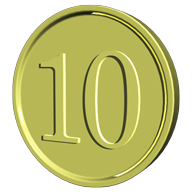
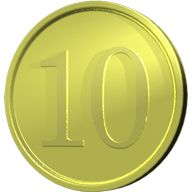
at 2019.04.13 17:52

diff --git a/index.html b/index.html
@@ -126,8 +126,39 @@
             '       :fill="textColor"' +
             '       :max="max"' +
             '       :min="min"' +
-            '       v-model="value"' +
+            '       v-model.number="value"' +
+            '       v-on:blur="onBlur"' +
+            '       @keypress.48="onKeyDownCheck"' +
+            '       @keypress.49="onKeyDownCheck"' +
+            '       @keypress.50="onKeyDownCheck"' +
+            '       @keypress.51="onKeyDownCheck"' +
+            '       @keypress.52="onKeyDownCheck"' +
+            '       @keypress.53="onKeyDownCheck"' +
+            '       @keypress.54="onKeyDownCheck"' +
+            '       @keypress.55="onKeyDownCheck"' +
+            '       @keypress.56="onKeyDownCheck"' +
+            '       @keypress.57="onKeyDownCheck"' +
+            '       @keypress.96="onKeyDownCheck"' +
+            '       @keypress.97="onKeyDownCheck"' +
+            '       @keypress.98="onKeyDownCheck"' +
+            '       @keypress.99="onKeyDownCheck"' +
+            '       @keypress.100="onKeyDownCheck"' +
+            '       @keypress.101="onKeyDownCheck"' +
+            '       @keypress.102="onKeyDownCheck"' +
+            '       @keypress.103="onKeyDownCheck"' +
+            '       @keypress.104="onKeyDownCheck"' +
+            '       @keypress.105="onKeyDownCheck"' +
+            '       @keydown.69="onKeyDownDisable"' +
+            '       @keydown.107="onKeyDownDisable"' +
+            '       @keydown.109="onKeyDownDisable"' +
+            '       @keydown.110="onKeyDownDisable"' +
+            '       @keydown.shift.187="onKeyDownDisable"' +
+            '       @keydown.189="onKeyDownDisable"' +
+            '       @keydown.190="onKeyDownDisable"' +
+            '       @keypress.delete="onKeyPressDelete"' +
             '       @keypress.enter="onKeypressEnter"' +
+            '       @mouseup="onMouseUpInput"' +
+            '       @keyup="onKeyUpInput"' +
             '       class="knob-control__text-input">' +
             '</div>',
         props: {
@@ -158,7 +189,7 @@
             },
             'primaryColor': {
                 type: String,
-                default: '#006400'
+                default: '#6B8E23'
             },
             'secondaryColor': {
                 type: String,
@@ -295,7 +326,7 @@
                     window.removeEventListener('touchend', this.onTouchEnd);
                 }
             },
-           onMouseMove(e) {
+            onMouseMove(e) {
                 if (!this.disabled) {
                     e.preventDefault();
                     this.updatePosition(e.offsetX, e.offsetY);
@@ -313,10 +344,64 @@
                 }
             },
             onKeypressEnter(e) {
-                if (isNaN(this.value)) {
-                    this.value = 0;
+                let val = this.$refs.input.value;
+                const re = new RegExp('[0-9]+');
+                if (val.match(re)) {
+                    if (Number(val) > 50) val = '50';
+                    if (Number(val) < 0) val = '0';
+                    this.$emit('input',Number(val).toString());
+                    this.$refs.input.blur();
+                    return;
                 }
-                this.$refs.input.blur();
+                if (val === '') {
+                    this.$emit('input','0');
+                    this.$refs.input.blur();
+                    return;
+                }
+                event.preventDefault();
+            },
+            onBlur(e) {
+                let val = this.$refs.input.value;
+                const re = new RegExp('[0-9]+');
+                if (val.match(re)) {
+                    if (Number(val) > 50) val = '50';
+                    if (Number(val) < 0) val = '0';
+                    this.$emit('input',Number(val).toString());
+                    return;
+                }
+                if (val === '') {
+                    this.$emit('input','0');
+                    this.$refs.input.blur();
+                    return;
+                }
+                event.preventDefault();
+            },
+            onKeyDownCheck(e) {
+                let val = this.$refs.input.value;
+                const re = new RegExp('[0-9]+');
+                if (val.match(re)) {
+                    if (Number(val) > 50) val = '50';
+                    if (Number(val) < 0) val = '0';
+                    this.$emit('input',Number(val).toString());
+                    return;
+                }
+                if (val === '') {
+                    this.$emit('input','0');
+                    return;
+                }
+                event.preventDefault();
+            },
+            onMouseUpInput(e) {
+                this.$emit('input', this.$refs.input.value);
+            },
+            onKeyUpInput(e) {
+                this.$emit('input', this.$refs.input.value);
+            },
+            onKeyDownDisable(e) {
+                event.preventDefault();
+            },
+            onKeyPressDelete(e) {
+                return;
             },
             outerText(offsetX, offsetY) {
                 return !(offsetX > 43 && offsetX < 134 && offsetY > 53 && offsetY < 111);
@@ -325,7 +410,7 @@
     });
 </script>
 <style>
-    .knob-control {
+    knob-control {
         position: relative;
     }
     .knob-control__range {
@@ -367,7 +452,7 @@
                 <div class="r1st">
                     <input class="cst" type="hidden" :value="item.unit" width="1px" height="1px"/>
                     <img :alt="item.callName + 'の枚数'" class="image m-0 p-0 coin_picture" :src="'images/coin-' + item.unit + '.png'"/>
-                    <knob-control class="dial" primary-color="#006400" secondary-color="#D0D0D0" text-color="#006400" :min="0" :max="50" :size="170" v-model="item.number" height="170px"></knob-control>
+                    <knob-control class="dial" primary-color="#6B8E23" secondary-color="#D0D0D0" text-color="#006400" :min="0" :max="50" :size="170" v-model="item.counts" height="170px"></knob-control>
                 </div>
             </div>
         </div>
@@ -384,8 +469,8 @@
             <nav class="navbar navbar-light bg-white border-bottom-4 border-success Regular shadow p-0 m-0">
                 <img alt="まねかん Powered by Horornis.com." src="images/site-logo.png" class="navbar-brand" width="300px"/>
                 <span class="right">
-                    <button class="btn btn-outline-primary m-0 p-0 foo" :data-clipboard-text="totalValue"><span id="sumtitle"> 合計 </span><span id="sumresult">&yen;{{ totalMoney }} </span><span id="sumconst">&#x1F4CB;</span></button>
-                    <button class="btn btn-outline-danger allClear m-0" @click="doclear"><strong> C </strong></button>
+                    <button ref="totalValueButton" class="btn btn-outline-primary m-0 p-0 foo" :data-clipboard-text="totalValue"><span id="sumtitle"> 合計 </span><span id="sumresult">&yen;{{ totalMoney }} </span><span id="sumconst">&#x1F4CB;</span></button>
+                    <button ref="allClearButton" class="btn btn-outline-danger allClear m-0" @click="doclear"><strong> C </strong></button>
                 </span>
                 <div class="bg-white header3">
                     <div class="hidden_list">
@@ -403,25 +488,27 @@
     </div>
 </div>
 <script>
+    const storejs = store;
+    const cookiehead = '.Horornis-money_can-v3_0_2';
     function initialState() {
         const old_cookiehead = '.Horornis-moneycounter-v2_4_91-';
         const data = {
-            cookiehead: '.Horornis-money_can-v3_0_1',
+            cookiehead: '.Horornis-money_can-v3_0_2',
             items: [
-                {id: 0, order: 0, type: 's1', callName: '1円', unit: 1, number: 0, visible: true},
-                {id: 1, order: 1, type: 's5', callName: '5円', unit: 5, number: 0, visible: true},
-                {id: 2, order: 2, type: 's10', callName: '10円', unit: 10, number: 0, visible: true},
-                {id: 3, order: 3, type: 's50', callName: '50円', unit: 50, number: 0, visible: true},
-                {id: 4, order: 4, type: 's100', callName: '100円', unit: 100, number: 0, visible: true},
-                {id: 5, order: 5, type: 's500', callName: '500円', unit: 500, number: 0, visible: true},
-                {id: 6, order: 6, type: 's1000', callName: '千円', unit: 1000, number: 0, visible: false},
-                {id: 7, order: 7, type: 's2000', callName: '弐千円', unit: 2000, number: 0, visible: false},
-                {id: 8, order: 8, type: 's5000', callName: '五千円', unit: 5000, number: 0, visible: false},
-                {id: 9, order: 9, type: 's10000', callName: '壱万円', unit: 10000, number: 0, visible: false}
+                {id: 0, order: 0, type: 's1', callName: '1円', unit: 1, counts: 0, visible: true},
+                {id: 1, order: 1, type: 's5', callName: '5円', unit: 5, counts: 0, visible: true},
+                {id: 2, order: 2, type: 's10', callName: '10円', unit: 10, counts: 0, visible: true},
+                {id: 3, order: 3, type: 's50', callName: '50円', unit: 50, counts: 0, visible: true},
+                {id: 4, order: 4, type: 's100', callName: '100円', unit: 100, counts: 0, visible: true},
+                {id: 5, order: 5, type: 's500', callName: '500円', unit: 500, counts: 0, visible: true},
+                {id: 6, order: 6, type: 's1000', callName: '千円', unit: 1000, counts: 0, visible: false},
+                {id: 7, order: 7, type: 's2000', callName: '弐千円', unit: 2000, counts: 0, visible: false},
+                {id: 8, order: 8, type: 's5000', callName: '五千円', unit: 5000, counts: 0, visible: false},
+                {id: 9, order: 9, type: 's10000', callName: '壱万円', unit: 10000, counts: 0, visible: false}
             ]
         };
         let ret = {
-            cookiehead: '.Horornis-money_can-v3_0_1',
+            cookiehead: '.Horornis-money_can-v3_0_2',
             items: []
         };
         if (store.has(data.cookiehead)) ret.items = store.get(data.cookiehead);
@@ -431,7 +518,7 @@
         }
         for (let i = 0; i < data.length; i++) {
             if (store.has(old_cookiehead + data.items[i].type)) {
-                data.items[i].number = store.get(old_cookiehead + data.items[i].type).count;
+                data.items[i].counts = store.get(old_cookiehead + data.items[i].type).count;
                 data.items[i].visible = !(store.get(old_cookiehead + data.items[i].type).hide);
                 store.delete(old_cookiehead + data.items[i].type);
             }
@@ -448,7 +535,7 @@
                 let total = 0;
                 for (let i = 0; i < this.items.length; i++) {
                     if (this.items[i].visible) {
-                        total += this.items[i].unit * this.items[i].number;
+                        total += this.items[i].unit * this.items[i].counts;
                     }
                 }
                 store.set(this.cookiehead,this.items);
@@ -459,7 +546,7 @@
                 let total = 0;
                 for (let i = 0; i < this.items.length; i++) {
                     if (this.items[i].visible) {
-                        total += this.items[i].unit * this.items[i].number;
+                        total += this.items[i].unit * this.items[i].counts;
                     }
                 }
                 return total;
@@ -467,14 +554,14 @@
             subtotalMoney: function () {
                 let ret = [];
                 for (let i = 0; i < this.items.length; i++) {
-                    ret.push(Number(this.items[i].unit * this.items[i].number).toLocaleString());
+                    ret.push(Number(this.items[i].unit * this.items[i].counts).toLocaleString());
                 }
                 return ret;
             }
         },
         methods: {
             dohide: function (i) {
-                this.items[i].number = 0;
+                this.items[i].counts = 0;
                 this.items[i].visible = false;
             },
             doshow: function (i) {
@@ -482,8 +569,9 @@
             },
             doclear: function () {
                 for (let i = 0; i < this.items.length; i++) {
-                    this.items[i].number = 0;
+                    this.items[i].counts = 0;
                 }
+                this.$refs.allClearButton.blur();
             },
         }
     });
@@ -491,16 +579,18 @@
     let clipboard = new ClipboardJS('.foo');
     clipboard.on('success', function (e) {
         alert('クリップボードへコピーしました。');
+        $('button.foo').blur();
     });
     clipboard.on('error', function (e) {
         alert('クリップボードへのコピーに失敗しました。');
+        $('button.foo').blur();
     });
-    $(function () {
-        Sortable.create($('.tbl')[0], {
-            handle: '.handle',
-            animation: 150  // ミリ秒で指定
-        });
+    let el = document.getElementsByClassName('tbl');
+    Sortable.create(el[0], {
+        handle: '.handle',
+        animation: 150,  // ミリ秒で指定
     });
+
 </script>
 </body>
 </html>

diff --git a/css/main.css b/css/main.css
@@ -28,7 +28,7 @@ div.site-header{
 	justify-content: space-between;
 	align-self: center;
 	background: #fff;
-	border-bottom: medium solid darkgreen;
+	border-bottom: medium solid #6B8E23;
 	vertical-align: middle;
 	height: 2em;
 }
@@ -46,7 +46,7 @@ div.header3 {
 	height: auto;
 	width: 100%;
 	background-color: #fff;
-	border-top: medium solid darkgreen;
+	border-top: medium solid #6B8E23;
 	border-bottom: 1px solid gray;
 	vertical-align:baseline;
 	text-align: left;
@@ -86,7 +86,7 @@ div.ft_txt {
 	height: auto;
 	align-content: center;
 	color: white;
-	background-color: green;
+	background-color: #6B8E23;
 }
 div.dummy {
 	height: 8em;
@@ -224,12 +224,6 @@ img.coin_picture {
 	font-size: 12pt;
 	display:inline-block;
 }
-input#foo {
-	font-size: 1px;
-	width: 1px;
-	height: 0;
-	border: none;
-}
 #hide {
 	font-size: 10pt;
 }
@@ -249,6 +243,7 @@ button.foo {
 	vertical-align: bottom;
 	text-align: right;
 	width: 270px;
+	display: inline;
 }
 button.allClear {
 	background-color: transparent;
@@ -257,6 +252,7 @@ button.allClear {
 	text-align: right;
 	font-size: 18pt;
 	padding: 0 10px;
+	display: inline;
 }
 p {
 	padding-right: 4pt;
